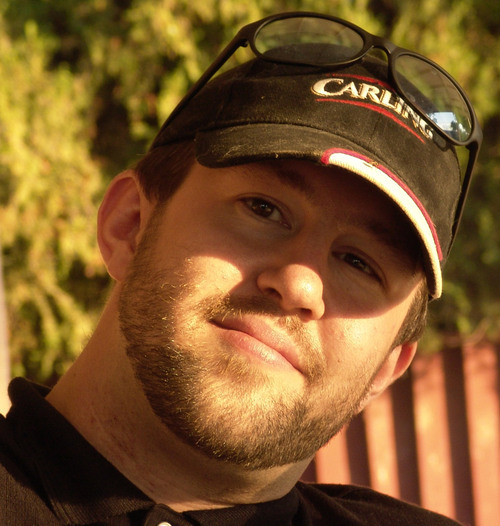
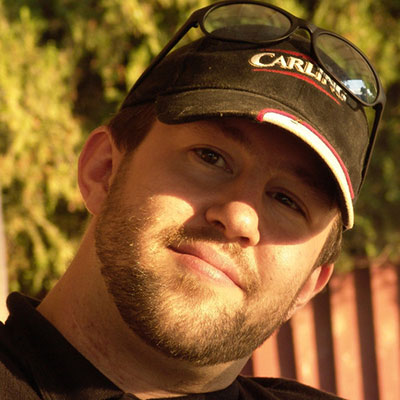
Update team page

diff --git a/team.html b/team.html
@@ -53,10 +53,8 @@
         <nav class="navbar row" role="navigation">
           <a href="index.html" class="cover-logo col-xs-12 col-sm-4"><img src="img/logo-blue.png" alt="Storj" class="cover-logo-icon">Storj.io</a>
           <div class="navbar-menu col-sm-8 col-xs-12">
-            <a class="navbar-link page-scroll" href="index.html#apps">Apps</a>
             <a class="navbar-link" href="http://blog.storj.io">Blog</a>
             <a class="navbar-link" href="http://slack.storj.io">Slack</a>
-            <a class="navbar-link" href="http://storj.io/faq.html">FAQ</a>
             <a class="navbar-link" href="earlyaccess.html">Early Access</a>
           </div>
         </nav>
@@ -86,21 +84,21 @@
           </div>
 
           <div class="team-member wow fadeInUp" data-wow-delay="0.4s">
-            <img src="img/team/jim.jpg" alt="Jim Lowry" class="team-member-image">
-            <p class="team-member-name">Jim Lowry</p>
-            <p class="team-member-title">Founder &amp; Lead<br/>Advisor</p>
+            <img src="img/team/james.jpg" alt="James Prestwich" class="team-member-image">
+            <p class="team-member-name">James Prestwich</p>
+            <p class="team-member-title">Founder &amp; Business<br/>Development</p>
           </div>
 
           <div class="team-member wow fadeInUp" data-wow-delay="0.6s">
-            <img src="img/team/james.jpg" alt="James Prestwich" class="team-member-image">
-            <p class="team-member-name">James Prestwich</p>
-            <p class="team-member-title">Research &amp;<br/>Data Consulting</p>
+            <img src="img/team/jim.jpg" alt="Jim Lowry" class="team-member-image">
+            <p class="team-member-name">Jim Lowry</p>
+            <p class="team-member-title">Founder &amp;<br/>Advisor</p>
           </div>
 
           <div class="team-member wow fadeInUp">
             <img src="img/team/andrew.jpg" alt="Andrew Yashchuk" class="team-member-image">
             <p class="team-member-name">Andrew Yashchuk</p>
-            <p class="team-member-title">Hardware<br>Integration Lead</p>
+            <p class="team-member-title">Hardware Integration</p>
           </div> 
 
           <div class="team-member wow fadeInUp" data-wow-delay="0.2s">
@@ -110,51 +108,51 @@
           </div> 
 
           <div class="team-member wow fadeInUp" data-wow-delay="0.4s">
-            <img src="img/team/will.jpg" alt="William James" class="team-member-image">
-            <p class="team-member-name">William James</p>
-            <p class="team-member-title">Core<br>Developer</p>
-          </div>
-
-          <div class="team-member wow fadeInUp" data-wow-delay="0.6s">
             <img src="img/team/utamaro.jpg" alt="Shinya Yagyu" class="team-member-image">
             <p class="team-member-name">Shinya Yagyu</p>
             <p class="team-member-title">Developer</p>
           </div>
 
-          <div class="team-member wow fadeInUp">
+          <div class="team-member wow fadeInUp" data-wow-delay="0.6s">
             <img src="img/team/josh.jpg" alt="Josh Brandoff" class="team-member-image">
             <p class="team-member-name">Josh Brandoff</p>
             <p class="team-member-title">Advisor</p>
           </div>
 
-          <div class="team-member wow fadeInUp" data-wow-delay="0.2s">
-            <img src="img/team/dragan.jpg" alt="Dragan Jandreski" class="team-member-image">
-            <p class="team-member-name">Dragan Jandreski</p>
+          <div class="team-member wow fadeInUp">
+            <img src="img/team/will.jpg" alt="William James" class="team-member-image">
+            <p class="team-member-name">William James</p>
+            <p class="team-member-title">Developer</p>
+          </div>
+
+          <div class="team-member wow fadeInUp" data-wow-delay="0.2s">            
+            <img src="img/team/fabe.jpg" alt="Fabian Barkhau" class="team-member-image">
+            <p class="team-member-name">Fabian Barkhau</p>
             <p class="team-member-title">Developer</p>
           </div>
 
           <div class="team-member wow fadeInUp" data-wow-delay="0.4s">
-            <img src="img/team/matthew.jpg" alt="Matthew Roszak" class="team-member-image">
-            <p class="team-member-name">Matthew Roszak</p>
-            <p class="team-member-title">Advisor</p>
-          </div>
-
-          <div class="team-member wow fadeInUp" data-wow-delay="0.6s">
             <img src="img/team/robin.jpg" alt="Robin Beckett" class="team-member-image">
             <p class="team-member-name">Robin Beckett</p>
             <p class="team-member-title">Developer</p>
           </div>
 
-          <div class="team-member wow fadeInUp">              
-            <img src="img/team/rob.jpg" alt="Rob Michael" class="team-member-image">
-            <p class="team-member-name">Rob Michael</p>
-            <p class="team-member-title">Marketing</p>
+          <div class="team-member wow fadeInUp" data-wow-delay="0.6s">
+            <img src="img/team/dragan.jpg" alt="Dragan Jandreski" class="team-member-image">
+            <p class="team-member-name">Dragan Jandreski</p>
+            <p class="team-member-title">Developer</p>
           </div>
 
-          <div class="team-member wow fadeInUp" data-wow-delay="0.2s">              
-            <img src="img/team/russell.jpg" alt="Russell Anderson" class="team-member-image">
-            <p class="team-member-name">Russell Anderson</p>
-            <p class="team-member-title">Video Production</p>
+          <div class="team-member wow fadeInUp">
+            <img src="img/team/matthew.jpg" alt="Matthew Roszak" class="team-member-image">
+            <p class="team-member-name">Matthew Roszak</p>
+            <p class="team-member-title">Advisor</p>
+          </div>
+
+          <div class="team-member wow fadeInUp" data-wow-delay="0.2s">            
+            <img src="img/team/vlado.jpg" alt="Vlado Petrushev" class="team-member-image">
+            <p class="team-member-name">Vlado Petrushev</p>
+            <p class="team-member-title">European Operations</p>
           </div>
 
           <div class="team-member wow fadeInUp" data-wow-delay="0.4s">              
@@ -163,10 +161,10 @@
             <p class="team-member-title">Developer</p>
           </div>
 
-          <div class="team-member wow fadeInUp" data-wow-delay="0.6s">            
-            <img src="img/team/vlado.jpg" alt="Vlado Petrushev" class="team-member-image">
-            <p class="team-member-name">Vlado Petrushev</p>
-            <p class="team-member-title">European Operations</p>
+          <div class="team-member wow fadeInUp" data-wow-delay="0.6s">              
+            <img src="img/team/russell.jpg" alt="Russell Anderson" class="team-member-image">
+            <p class="team-member-name">Russell Anderson</p>
+            <p class="team-member-title">Video Production</p>
           </div>
 
           <div class="team-member wow fadeInUp">              
@@ -187,10 +185,10 @@
             <p class="team-member-title">Event Planner</p>
           </div>
 
-          <div class="team-member wow fadeInUp" data-wow-delay="0.6s">            
-            <img src="img/team/ryan.jpg" alt="Ryan Raymond" class="team-member-image">
-            <p class="team-member-name">Ryan Raymond</p>
-            <p class="team-member-title">Community</p>
+          <div class="team-member wow fadeInUp" data-wow-delay="0.6s">              
+            <img src="img/team/rob.jpg" alt="Rob Michael" class="team-member-image">
+            <p class="team-member-name">Rob Michael</p>
+            <p class="team-member-title">Marketing</p>
           </div>
 
         </div>

diff --git a/css/style.css b/css/style.css
@@ -1245,6 +1245,7 @@ input#mce-EMAIL {}
   border-radius: 50%;
   margin-bottom: 20px;
   width: 70%;
+  max-width: 180px;
   height: 70%;
   border: 4px solid #eee;
 }
